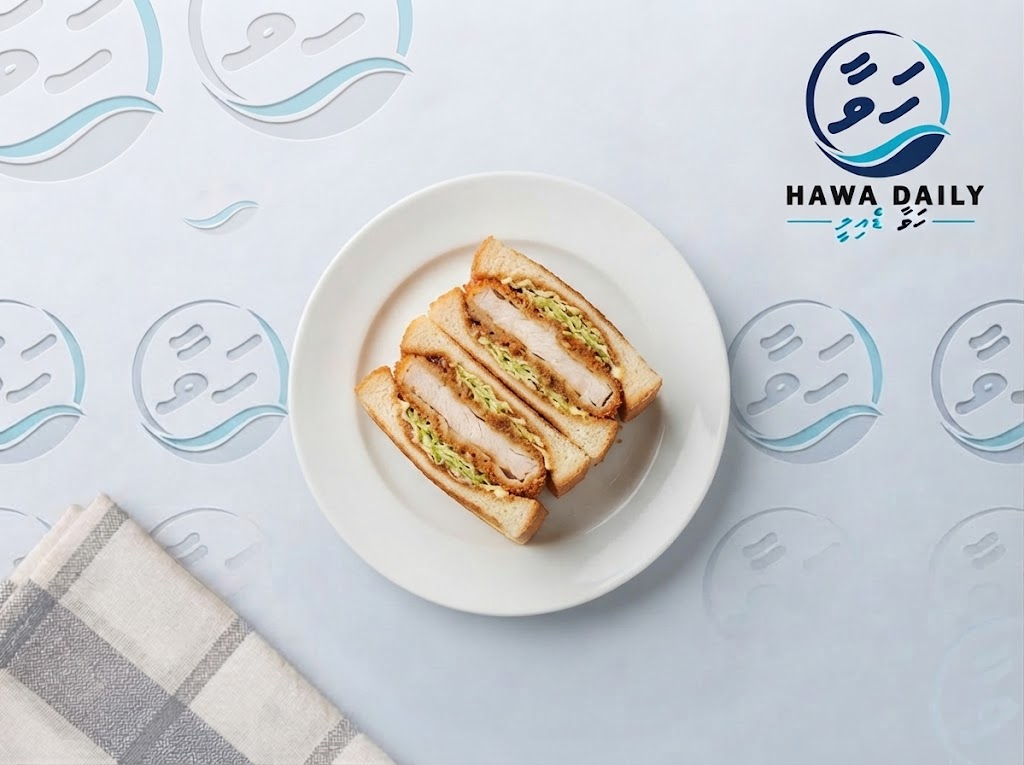
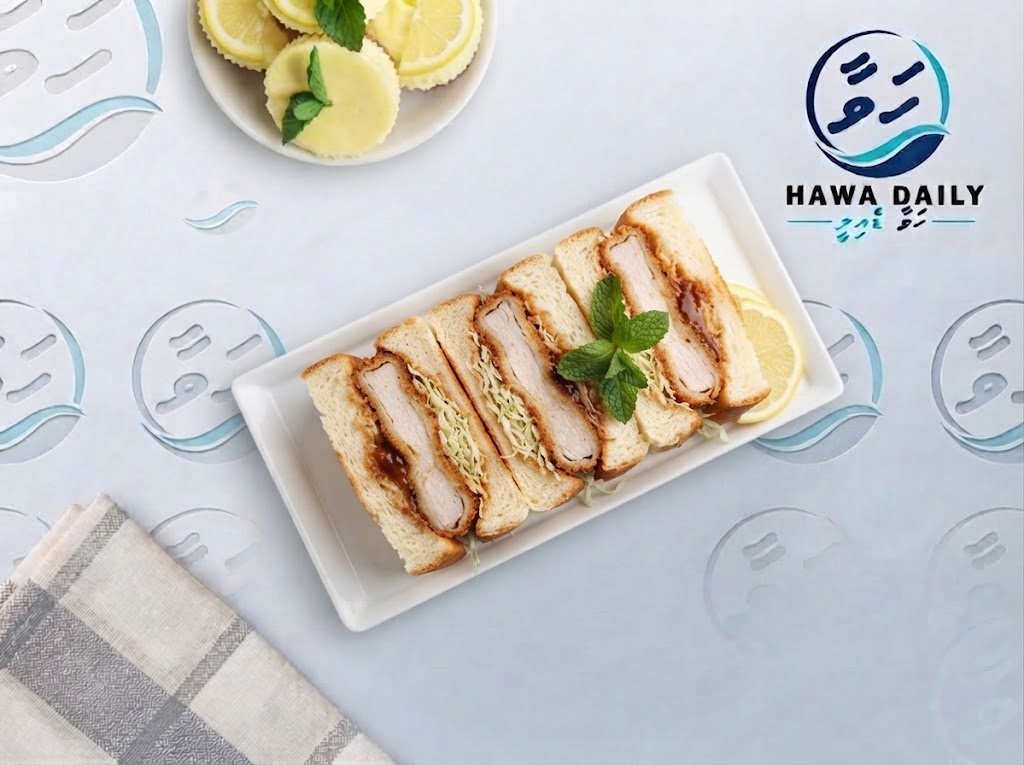
Update recipe titles (remove brand names), add recipe images, add Update Lonumedhu Titles button to admin

diff --git a/src/pages/AdminDashboard.tsx b/src/pages/AdminDashboard.tsx
@@ -555,6 +555,7 @@ export default function AdminDashboard() {
   const [savingAllRecipes, setSavingAllRecipes] = useState(false);
   const [importingHedhikaa, setImportingHedhikaa] = useState(false);
   const [importingNadiyasKitchen, setImportingNadiyasKitchen] = useState(false);
+  const [importingLonumedhu, setImportingLonumedhu] = useState(false);
 
   // Live preview update
   useEffect(() => {
@@ -2060,6 +2061,37 @@ export default function AdminDashboard() {
       setMessage('Error importing nadiyaskitchen recipes. Please try again.');
     } finally {
       setImportingNadiyasKitchen(false);
+    }
+  };
+
+  const handleImportLonumedhuRecipes = async () => {
+    if (!confirm('Are you sure you want to import lonumedhu recipes? This will update existing recipes with new titles (brand names removed).')) {
+      return;
+    }
+
+    setImportingLonumedhu(true);
+    setMessage('Importing lonumedhu recipes with updated titles...');
+
+    try {
+      const response = await fetch('/src/data/lonumedhu-recipes.json');
+      const lonumedhuRecipes = await response.json();
+      
+      // Update existing recipes with new titles
+      const updatedRecipes = recipesList.map(r => {
+        const updated = lonumedhuRecipes.find((lr: any) => lr.id === r.id);
+        if (updated) {
+          return { ...r, titleDv: updated.titleDv, titleEn: updated.titleEn };
+        }
+        return r;
+      });
+      
+      setRecipesList(updatedRecipes);
+      setMessage(`Successfully updated ${lonumedhuRecipes.length} lonumedhu recipe titles. Click "Save All Recipes to Firebase" to update Firestore.`);
+    } catch (error) {
+      console.error('Error importing lonumedhu recipes:', error);
+      setMessage('Error importing lonumedhu recipes. Please try again.');
+    } finally {
+      setImportingLonumedhu(false);
     }
   };
 
@@ -4189,6 +4221,13 @@ export default function AdminDashboard() {
                 <p className="mt-2 text-sm text-gray-600">{t.recipesDesc}</p>
               </div>
               <div className="flex gap-2">
+                <button
+                  onClick={handleImportLonumedhuRecipes}
+                  disabled={importingLonumedhu}
+                  className="rounded-full bg-orange-500 px-6 py-3 font-semibold text-white transition hover:bg-orange-600 disabled:opacity-50"
+                >
+                  {importingLonumedhu ? 'Importing...' : 'Update Lonumedhu Titles'}
+                </button>
                 <button
                   onClick={handleImportHedhikaaRecipes}
                   disabled={importingHedhikaa}

diff --git a/src/components/SiteStats.tsx b/src/components/SiteStats.tsx
@@ -19,28 +19,40 @@ export default function SiteStats() {
   useEffect(() => {
     const fetchStats = async () => {
       try {
-        // Fetch all articles
+        // Fetch all articles in parallel with their stats
         const articlesSnapshot = await getDocs(collection(db, 'articles'));
         
         let totalViews = 0;
         let totalLikes = 0;
         let totalComments = 0;
 
-        // Aggregate stats from all articles
-        for (const articleDoc of articlesSnapshot.docs) {
+        // Aggregate views from article documents (fast)
+        articlesSnapshot.forEach((articleDoc) => {
           const articleData = articleDoc.data();
-          
-          // Sum views (stored as 'views' field in each article)
           totalViews += articleData.views || 0;
-          
-          // Fetch likes from subcollection (articles/{articleId}/likes/count)
-          const likesCountDoc = await getDoc(doc(db, 'articles', articleDoc.id, 'likes', 'count'));
-          totalLikes += likesCountDoc.exists() ? likesCountDoc.data().count || 0 : 0;
+        });
 
-          // Count comments for this article
-          const commentsSnapshot = await getDocs(collection(db, 'articles', articleDoc.id, 'comments'));
+        // Fetch likes and comments in parallel (faster than sequential)
+        const articleIds = articlesSnapshot.docs.map(doc => doc.id);
+        
+        const [likesPromises, commentsPromises] = articleIds.reduce((acc, articleId) => {
+          acc[0].push(getDoc(doc(db, 'articles', articleId, 'likes', 'count')));
+          acc[1].push(getDocs(collection(db, 'articles', articleId, 'comments')));
+          return acc;
+        }, [[], []] as [Promise<any>[], Promise<any>[]]);
+
+        const likesResults = await Promise.all(likesPromises);
+        const commentsResults = await Promise.all(commentsPromises);
+
+        // Aggregate likes
+        likesResults.forEach((likesDoc) => {
+          totalLikes += likesDoc.exists() ? likesDoc.data().count || 0 : 0;
+        });
+
+        // Aggregate comments
+        commentsResults.forEach((commentsSnapshot) => {
           totalComments += commentsSnapshot.size;
-        }
+        });
 
         setStats({
           visitors: totalViews,

diff --git a/src/App.tsx b/src/App.tsx
@@ -28,6 +28,21 @@ import { Home as HomeIcon, FolderOpen, ChefHat, Briefcase, Cloud, Video, User } 
 
 function App() {
   const [language, setLanguage] = useState<'en' | 'dv'>('dv');
+
+  // Redirect app store users to hawadaily.com
+  useEffect(() => {
+    const userAgent = navigator.userAgent || navigator.vendor || (window as any).opera;
+    
+    // Check if user is coming from App Store or Google Play in-app browser
+    if (/FBAN|FBAV|Twitter|Instagram|WhatsApp|Line|WeChat|MicroMessenger/i.test(userAgent) ||
+        /GSA|Android.*Version\/[0-9]\.[0-9]/i.test(userAgent) ||
+        /iPhone|iPad|iPod/i.test(userAgent) && /Safari/i.test(userAgent) === false) {
+      // Check if already on hawadaily.com to prevent redirect loop
+      if (window.location.hostname !== 'www.hawadaily.com' && window.location.hostname !== 'hawadaily.com') {
+        window.location.href = 'https://www.hawadaily.com/';
+      }
+    }
+  }, []);
   const location = useLocation();
 
   // Set text direction based on language
